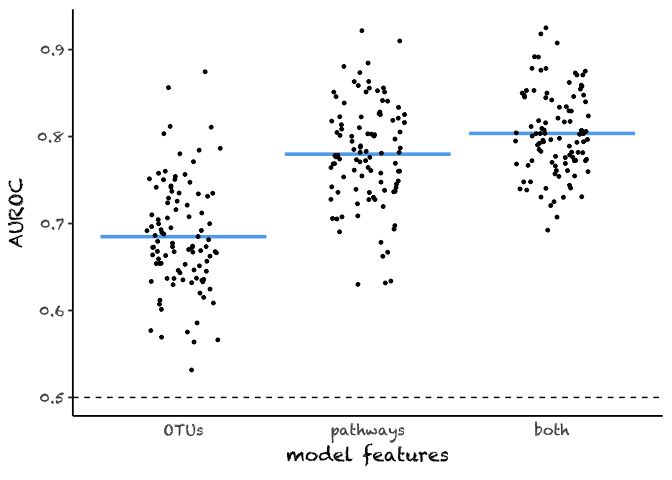
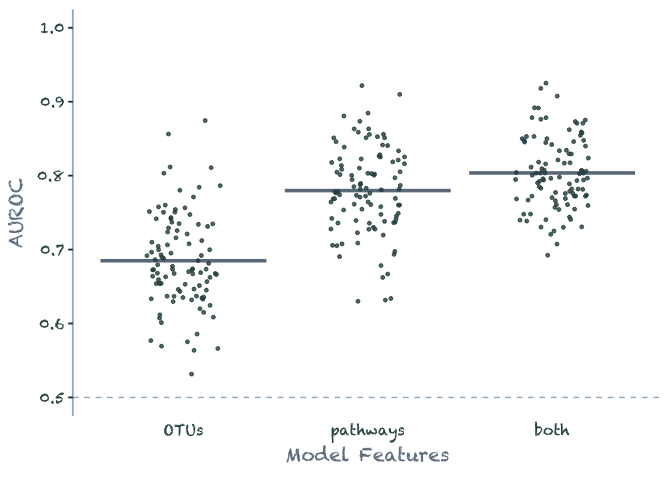
Slate gray is nice

diff --git a/README.md b/README.md
@@ -66,12 +66,20 @@ ml1 <- data.frame(OTUs = rnorm(100, .69, .07),
 ``` r
 plot_auroc <- function(mldata) {
   mldata %>% ggplot(aes(model, auroc)) +
-    stat_summary(fun = mean, geom = "crossbar", color = "steelblue2") +
-    geom_jitter(size = 1, width = 0.2) +
-    geom_hline(yintercept = 0.5, linetype = 'dashed') +
-    labs(y = 'AUROC', x = 'model features') +
-    theme_classic(base_family = 'Chalkduster', base_size = 14) + 
-    theme(axis.ticks.x = element_line(colour=NA), panel.grid = element_line(colour="white"))
+    stat_summary(fun = mean, geom = "crossbar", color = "slategray4") +
+    geom_jitter(color = "darkslategray", alpha = 0.8, size = 1, width = 0.2) +
+    geom_hline(yintercept = 0.5, 
+               linetype = 'dashed',
+               color = 'slategray3') +
+    ylim(0.5, 1) +
+    labs(y = 'AUROC', x = 'Model Features') +
+    theme_classic(base_family = 'Chalkduster', 
+                  base_size = 14) + 
+    theme(axis.ticks.x = element_line(colour=NA),
+          axis.line.x = element_blank(),
+          axis.line.y = element_line(color = "slategray3"),
+          text = element_text(color = 'slategray'),
+          axis.text = element_text(color = 'darkslategray'))
 }
 
 ml1 %>% plot_auroc()
